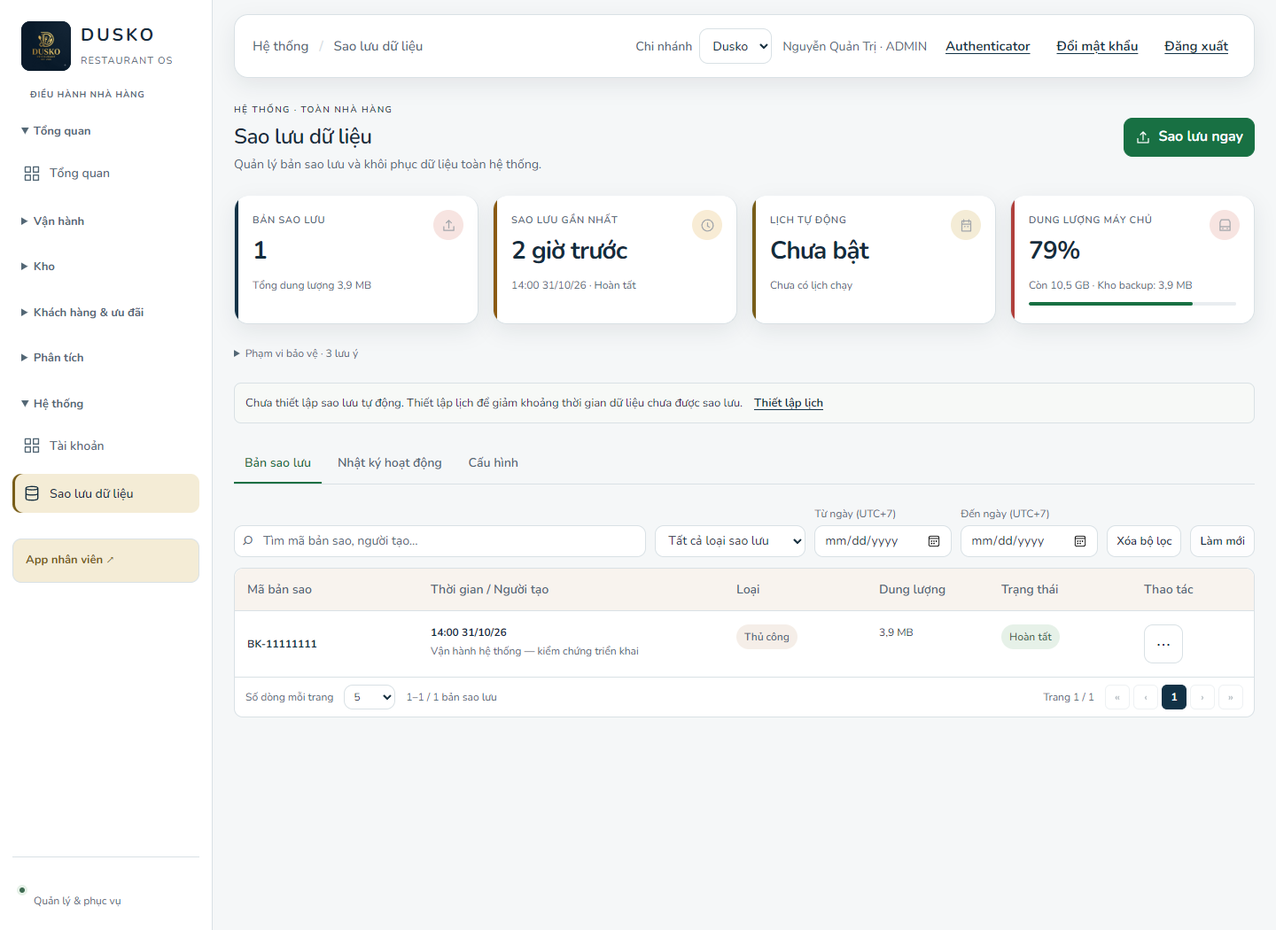
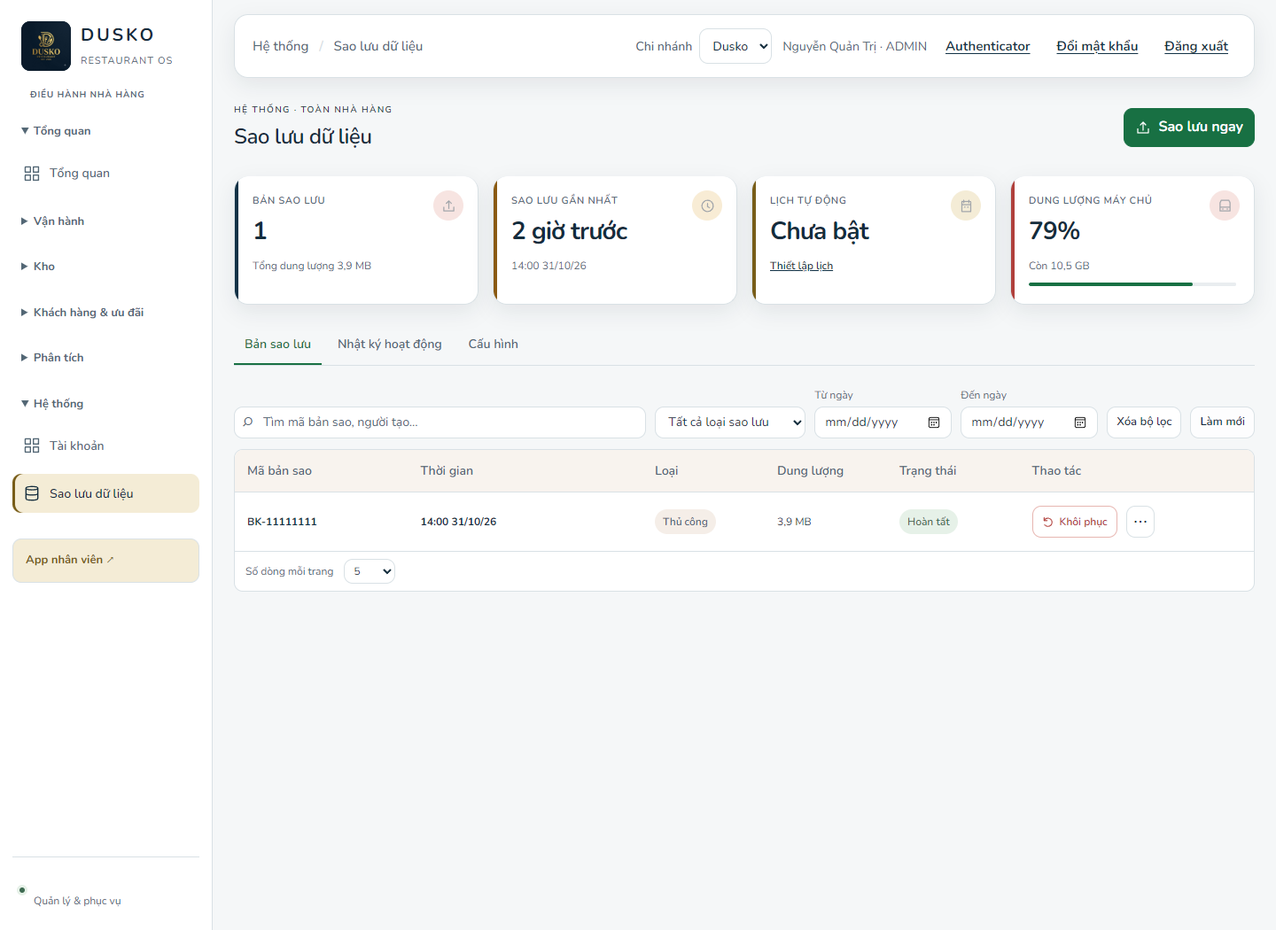
fix: simplify backup workspace and expose restore action

diff --git a/src/backup-console.js b/src/backup-console.js
@@ -47,24 +47,24 @@ export function backupStatusHtml(data,view={}) {
  else if(error)warnings.push({text:'Tác vụ sao lưu hoặc khôi phục gần nhất thất bại/gián đoạn.',action:'tab-activity',label:'Kiểm tra lỗi'});
  if(!latest)warnings.push({text:'Chưa ghi nhận bản sao hoàn tất trong kho đang theo dõi.'});
  else if(age>24)warnings.push({text:'Bản sao gần nhất đã hơn 24 giờ. Cân nhắc tạo bản mới theo nhu cầu vận hành.'});
- if(schedule.frequency==='OFF')warnings.push({text:'Chưa thiết lập sao lưu tự động. Thiết lập lịch để giảm khoảng thời gian dữ liệu chưa được sao lưu.',action:'schedule',label:'Thiết lập lịch'});
+
  if(schedule.lastError)warnings.push({text:schedule.lastError,action:'tab-settings',label:'Kiểm tra lịch'});
  if(lowDisk)warnings.push({text:'Dung lượng trống dưới ngưỡng tối thiểu 512 MiB. Cần giải phóng dung lượng trước khi sao lưu.',action:'tab-settings',label:'Xem dung lượng'});
  const issues=[...(!connected.some(item=>item.id!=='local')?['Chưa ghi nhận bản sao ngoài máy chủ; mất volume có thể làm mất cả các bản local.']:[]),...(!data.restoreVerified?['Chưa có kết quả kiểm chứng khôi phục cho các bản trong kho này.']:[]),'Danh sách dựa trên manifest; chưa đối chiếu lại toàn bộ checksum khi tải trang.'];
- const header=`<div class="page-head bk-heading"><div><span class="eyebrow">HỆ THỐNG · TOÀN NHÀ HÀNG</span><h1>Sao lưu dữ liệu</h1><p>Quản lý bản sao lưu và khôi phục dữ liệu toàn hệ thống.</p></div><button class="btn primary bk-primary" data-backup="create" ${cap.canCreate?'':'disabled'}>${icons.backup}Sao lưu ngay</button></div>`;
+ const header=`<div class="page-head bk-heading"><div><span class="eyebrow">HỆ THỐNG · TOÀN NHÀ HÀNG</span><h1>Sao lưu dữ liệu</h1></div><button class="btn primary bk-primary" data-backup="create" ${cap.canCreate?'':'disabled'}>${icons.backup}Sao lưu ngay</button></div>`;
  const running=active?`<section class="bk-running" aria-live="polite"><div class="bk-running-head"><div>${badge(backupStates[active.state]||'Đang xử lý',active.stalled?'danger':'info')}<strong>${e(operations[active.operation||'BACKUP'])} · ${e(phases[active.phase]||'Chuẩn bị')}</strong></div><b>${progress}%</b></div><progress class="bk-meter" max="100" value="${progress}" aria-label="Tiến độ tác vụ">${progress}%</progress><small>Tiến độ theo công đoạn · tác vụ tiếp tục chạy khi đóng trang</small>${active.message?`<p class="bk-error">${e(active.message)}</p>`:''}</section>`:'';
  const overview=backupOverviewHtml({data,backups,latest,relative,percent,diskTone,frequency,schedule,sum,issues,icons,size:backupSize});
  const warningHtml=item=>`<span>${e(item.text)}</span>${item.action?`<button class="btn text" data-backup="${item.action}" ${item.action==='schedule'&&locked?'disabled':''}>${e(item.label)}</button>`:''}`;
  const attention=warnings.length?`<section class="bk-attention" aria-label="Lưu ý vận hành"><ul>${warnings.length<=2?warnings.map(item=>`<li>${warningHtml(item)}</li>`).join(''):`<li>${warningHtml(warnings[0])}</li><li><details data-backup-detail="more-warnings"><summary>${warnings.length-1} lưu ý vận hành khác</summary><ul>${warnings.slice(1).map(item=>`<li>${warningHtml(item)}</li>`).join('')}</ul></details></li>`}</ul></section>`:'';
  const tabs=`<nav class="bk-tabs" aria-label="Mục quản trị sao lưu">${[['archives','Bản sao lưu'],['activity','Nhật ký hoạt động'],['settings','Cấu hình']].map(([id,label])=>`<button data-backup="tab-${id}" ${tab===id?'aria-current="page"':''}>${label}</button>`).join('')}</nav>`;
- const filters=`<div class="bk-date-filters"><div class="bk-filters" role="search" aria-label="Lọc theo thời gian"><label><span>Từ ngày (UTC+7)</span><input type="date" data-backup-filter="from" value="${e(view.from||'')}"></label><label><span>Đến ngày (UTC+7)</span><input type="date" data-backup-filter="to" value="${e(view.to||'')}"></label><button class="btn secondary" data-backup="clear-filters">Xóa bộ lọc</button></div></div>`;
+ const filters=`<div class="bk-date-filters"><div class="bk-filters" role="search" aria-label="Lọc theo thời gian"><label><span>Từ ngày</span><input type="date" data-backup-filter="from" value="${e(view.from||'')}"></label><label><span>Đến ngày</span><input type="date" data-backup-filter="to" value="${e(view.to||'')}"></label><button class="btn secondary" data-backup="clear-filters">Xóa bộ lọc</button></div></div>`;
  const toolbar=`<div class="bk-list-toolbar"><label class="bk-list-search"><span class="bk-sr-only">Tìm bản sao lưu</span><span aria-hidden="true">⌕</span><input type="search" data-backup-filter="query" value="${e(view.query||'')}" placeholder="Tìm mã bản sao, người tạo…"></label><label class="bk-list-type"><span class="bk-sr-only">Loại sao lưu</span><select data-backup-filter="type">${[['','Tất cả loại sao lưu'],['MANUAL','Thủ công'],['AUTO','Tự động'],['SAFETY','Trước khôi phục']].map(([value,label])=>`<option value="${value}" ${view.type===value?'selected':''}>${label}</option>`).join('')}</select></label>${filters}<button class="btn secondary bk-refresh" data-backup="refresh">Làm mới</button></div>`;
- const table=archiveView.items.length?`<div class="table-scroll ui-table-scroll">${tableMarkup({headers:["M\u00e3 b\u1ea3n sao", "Th\u1eddi gian / Ng\u01b0\u1eddi t\u1ea1o", "Lo\u1ea1i", "Dung l\u01b0\u1ee3ng", "Tr\u1ea1ng th\u00e1i", "Thao t\u00e1c"],rowsHtml:archiveView.items.map(item=>`<tr><td data-label="Mã bản sao"><button class="bk-record-link" data-backup="details" data-archive-id="${e(item.id)}" title="${e(item.id)}">BK-${e((item.id?.match(/([a-f0-9]{8})-[a-f0-9-]{27}$/i)?.[1]||item.id?.slice(-8)||'—').toUpperCase())}</button></td><td data-label="Thời gian"><strong>${e(dateTime(item.createdAt))}</strong><small class="bk-archive-actor" title="${e(item.requestedByName||'Chưa ghi nhận')}">${e(item.requestedByName||'Chưa ghi nhận')}</small></td><td data-label="Loại">${badge(triggerLabel(item.trigger),item.trigger==='AUTO'?'info':'neutral')}</td><td data-label="Dung lượng">${e(backupSize(item.bytes))}</td><td data-label="Trạng thái">${badge('Hoàn tất','success')}</td><td data-label="Thao tác"><details class="bk-row-menu" data-backup-detail="archive-${e(item.id)}"><summary aria-label="Thao tác bản sao ${e(dateTime(item.createdAt))}" title="Thao tác"><span aria-hidden="true">⋯</span></summary><div class="bk-menu-items"><button data-backup="details" data-archive-id="${e(item.id)}">Thông tin bản sao</button>${action('Tải về','download',item.id,locked)}<div class="bk-menu-danger"><small>Thao tác cần xác nhận</small>${action('Khôi phục','restore',item.id,locked||!cap.canRestore||!item.canRestore,item.restoreReason||cap.restoreReason||'Ghi đè dữ liệu toàn hệ thống')}${action('Xóa','delete',item.id,locked||(data.totalBackups??backups.length)<=1,'Giữ lại ít nhất một bản hoàn chỉnh')}</div></div></details></td></tr>`).join(''),className:'bk-archive-table'})}</div>`:`<div class="bk-empty"><h3>${backups.length?'Không có bản sao phù hợp':'Chưa có bản sao lưu'}</h3><p>${backups.length?'Thử đổi ngày, loại hoặc từ khóa tìm kiếm.':'Tạo bản đầu tiên bằng nút Sao lưu ngay.'}</p></div>`;
+ const table=archiveView.items.length?`<div class="table-scroll ui-table-scroll">${tableMarkup({headers:["M\u00e3 b\u1ea3n sao", "Th\u1eddi gian", "Lo\u1ea1i", "Dung l\u01b0\u1ee3ng", "Tr\u1ea1ng th\u00e1i", "Thao t\u00e1c"],rowsHtml:archiveView.items.map(item=>`<tr><td data-label="Mã bản sao"><button class="bk-record-link" data-backup="details" data-archive-id="${e(item.id)}" title="${e(item.id)}">BK-${e((item.id?.match(/([a-f0-9]{8})-[a-f0-9-]{27}$/i)?.[1]||item.id?.slice(-8)||'—').toUpperCase())}</button></td><td data-label="Thời gian"><strong title="${e(item.requestedByName||'')}" >${e(dateTime(item.createdAt))}</strong></td><td data-label="Loại">${badge(triggerLabel(item.trigger),item.trigger==='AUTO'?'info':'neutral')}</td><td data-label="Dung lượng">${e(backupSize(item.bytes))}</td><td data-label="Trạng thái">${badge('Hoàn tất','success')}</td><td data-label="Thao tác"><div class="bk-row-actions">${action('Khôi phục','restore',item.id,locked||!cap.canRestore||!item.canRestore,item.restoreReason||cap.restoreReason||'Ghi đè dữ liệu toàn hệ thống')}<details class="bk-row-menu" data-backup-detail="archive-${e(item.id)}"><summary aria-label="Thao tác bản sao ${e(dateTime(item.createdAt))}" title="Thao tác"><span aria-hidden="true">⋯</span></summary><div class="bk-menu-items"><button data-backup="details" data-archive-id="${e(item.id)}">Thông tin bản sao</button>${action('Tải về','download',item.id,locked)}<div class="bk-menu-danger"><small>Thao tác cần xác nhận</small>${action('Xóa','delete',item.id,locked||(data.totalBackups??backups.length)<=1,'Giữ lại ít nhất một bản hoàn chỉnh')}</div></div></details></div></td></tr>`).join(''),className:'bk-archive-table'})}</div>`:`<div class="bk-empty"><h3>${backups.length?'Không có bản sao phù hợp':'Chưa có bản sao lưu'}</h3><p>${backups.length?'Thử đổi ngày, loại hoặc từ khóa tìm kiếm.':'Tạo bản đầu tiên bằng nút Sao lưu ngay.'}</p></div>`;
  const pageNumbers=[...new Set([1,archiveView.page-1,archiveView.page,archiveView.page+1,archiveView.pages].filter(n=>n>=1&&n<=archiveView.pages))].sort((a,b)=>a-b);
- const pagination=`<div class="bk-pagination" data-page="${archiveView.page}"><div class="bk-pagination-meta"><label>Số dòng mỗi trang <select data-backup-filter="pageSize" aria-label="Số dòng mỗi trang">${[5,10,20].map(n=>`<option ${n===archiveView.pageSize?'selected':''}>${n}</option>`).join('')}</select></label><span role="status">${archiveView.total?`${(archiveView.page-1)*archiveView.pageSize+1}–${Math.min(archiveView.page*archiveView.pageSize,archiveView.total)}`:'0'} / ${archiveView.total} bản sao lưu</span></div><nav aria-label="Phân trang bản sao lưu"><span class="bk-page-label">Trang ${archiveView.page} / ${archiveView.pages}</span><button class="btn secondary" data-backup="goto-page" data-page="1" ${archiveView.page<=1?'disabled':''} aria-label="Trang đầu">«</button><button class="btn secondary" data-backup="previous-page" ${archiveView.page<=1?'disabled':''} aria-label="Trang trước">‹</button>${pageNumbers.map((n,i)=>`${i&&n>pageNumbers[i-1]+1?'<span class="bk-page-gap">…</span>':''}<button class="btn secondary bk-page-number" data-backup="goto-page" data-page="${n}" ${n===archiveView.page?'aria-current="page"':''} aria-label="Trang ${n}">${n}</button>`).join('')}<button class="btn secondary" data-backup="next-page" ${archiveView.page>=archiveView.pages?'disabled':''} aria-label="Trang sau">›</button><button class="btn secondary" data-backup="goto-page" data-page="${archiveView.pages}" ${archiveView.page>=archiveView.pages?'disabled':''} aria-label="Trang cuối">»</button></nav></div>`;
- const detail=selected?`<section class="bk-archive-detail" aria-label="Thông tin bản sao"><div class="bk-section-head"><h3 tabindex="-1">Thông tin bản sao</h3><button class="btn text" data-backup="close-details">Đóng</button></div><dl><dt>Mã bản sao</dt><dd>${e(selected.id)}</dd><dt>Phạm vi</dt><dd>Toàn hệ thống · tất cả chi nhánh</dd><dt>Thành phần</dt><dd>${e(scopeText(selected))}</dd><dt>Nơi lưu</dt><dd>Kho riêng trên máy chủ</dd><dt>Khả năng khôi phục</dt><dd>${selected.canRestore?'Metadata tương thích môi trường hiện tại; khi khôi phục vẫn kiểm tra đầy đủ checksum.':e(selected.restoreReason||'Chưa xác định khả năng tương thích.')}</dd><dt>Kiểm tra khôi phục</dt><dd>Chưa có kết quả kiểm tra khôi phục cho bản sao này.</dd></dl><p>Khôi phục ghi đè dữ liệu hiện tại toàn hệ thống, tự tạo bản SAFETY và tạm dừng nghiệp vụ. SQL/Mongo được xử lý tuần tự; lỗi sau khi ghi có thể cần vận hành phục hồi thủ công.</p>${action('Khôi phục','restore',selected.id,locked||!cap.canRestore||!selected.canRestore,selected.restoreReason||cap.restoreReason||'Ghi đè dữ liệu hiện tại')}</section>`:'';
+ const pagination=`<div class="bk-pagination" data-page="${archiveView.page}"><div class="bk-pagination-meta"><label>Số dòng mỗi trang <select data-backup-filter="pageSize" aria-label="Số dòng mỗi trang">${[5,10,20].map(n=>`<option ${n===archiveView.pageSize?'selected':''}>${n}</option>`).join('')}</select></label></div>${archiveView.pages>1?`<nav aria-label="Phân trang bản sao lưu"><span class="bk-page-label">Trang ${archiveView.page} / ${archiveView.pages}</span><button class="btn secondary" data-backup="goto-page" data-page="1" ${archiveView.page<=1?'disabled':''} aria-label="Trang đầu">«</button><button class="btn secondary" data-backup="previous-page" ${archiveView.page<=1?'disabled':''} aria-label="Trang trước">‹</button>${pageNumbers.map((n,i)=>`${i&&n>pageNumbers[i-1]+1?'<span class="bk-page-gap">…</span>':''}<button class="btn secondary bk-page-number" data-backup="goto-page" data-page="${n}" ${n===archiveView.page?'aria-current="page"':''} aria-label="Trang ${n}">${n}</button>`).join('')}<button class="btn secondary" data-backup="next-page" ${archiveView.page>=archiveView.pages?'disabled':''} aria-label="Trang sau">›</button><button class="btn secondary" data-backup="goto-page" data-page="${archiveView.pages}" ${archiveView.page>=archiveView.pages?'disabled':''} aria-label="Trang cuối">»</button></nav>`:''}</div>`;
+ const detail=selected?`<section class="bk-archive-detail" aria-label="Thông tin bản sao"><div class="bk-section-head"><h3 tabindex="-1">Thông tin bản sao</h3><button class="btn text" data-backup="close-details">Đóng</button></div><dl><dt>Mã bản sao</dt><dd>${e(selected.id)}</dd><dt>Người tạo</dt><dd>${e(selected.requestedByName||'Chưa ghi nhận')}</dd><dt>Phạm vi</dt><dd>Toàn hệ thống · tất cả chi nhánh</dd><dt>Thành phần</dt><dd>${e(scopeText(selected))}</dd><dt>Nơi lưu</dt><dd>Kho riêng trên máy chủ</dd><dt>Khả năng khôi phục</dt><dd>${selected.canRestore?'Metadata tương thích môi trường hiện tại; khi khôi phục vẫn kiểm tra đầy đủ checksum.':e(selected.restoreReason||'Chưa xác định khả năng tương thích.')}</dd><dt>Kiểm tra khôi phục</dt><dd>Chưa có kết quả kiểm tra khôi phục cho bản sao này.</dd></dl><p>Khôi phục ghi đè dữ liệu hiện tại toàn hệ thống, tự tạo bản SAFETY và tạm dừng nghiệp vụ. SQL/Mongo được xử lý tuần tự; lỗi sau khi ghi có thể cần vận hành phục hồi thủ công.</p>${action('Khôi phục','restore',selected.id,locked||!cap.canRestore||!selected.canRestore,selected.restoreReason||cap.restoreReason||'Ghi đè dữ liệu hiện tại')}</section>`:'';
  const archives=`<section class="bk-archives" aria-label="Danh sách bản sao lưu">${toolbar}${data.truncated?'<p class="bk-footnote">Bộ lọc chỉ áp dụng cho các bản đã tải; kho còn bản chưa được liệt kê.</p>':''}${tableFrame({className:'bk-table-frame',contentHtml:table,footerHtml:pagination})}${detail}${data.invalidCount?`<p class="bk-footnote">${e(data.invalidCount)} thư mục chưa hoàn tất hoặc thiếu manifest hợp lệ.</p>`:''}</section>`;
  const activity=backupAuditHtml(jobs,view);
- const settings=backupSettingsHtml({data,locked,frequency,schedule,connected,storage,size:backupSize,icons});
+ const settings=backupSettingsHtml({data,locked,frequency,schedule,connected,storage,issues,size:backupSize,icons});
  return `<div class="backup-console">${header}${overview}${attention}${!cap.canCreate?`<p class="bk-capability" role="status">${e(cap.reason||'Chức năng tạo backup chưa được bật trên máy chủ.')}</p>`:''}${running}${tabs}${tab==='archives'?archives:tab==='activity'?activity:settings}</div>`;
 }

diff --git a/src/backup-management.js b/src/backup-management.js
@@ -28,15 +28,15 @@ export function backupAuditHtml(jobs,view={}){
 export function backupOverviewHtml({data,backups,latest,relative,percent,diskTone,frequency,schedule,sum,issues,icons,size}){
  const cards=[
   metricCard({label:'Bản sao lưu',value:`${data.truncated?'≥ ':''}${backups.length}`,description:`Tổng dung lượng ${size(sum)}${data.truncated?' · số liệu đã tải':''}`,iconHtml:icons.backup}),
-  metricCard({label:'Sao lưu gần nhất',value:latest?relative||dateTime(latest.createdAt):'Chưa có',description:latest?`${dateTime(latest.createdAt)} · Hoàn tất`:'Chưa ghi nhận bản sao hoàn tất',iconHtml:icons.clock,tone:'warning'}),
-  metricCard({label:'Lịch tự động',value:frequency,description:schedule.nextRunAt?dateTime(schedule.nextRunAt)+' · UTC+7':'Chưa có lịch chạy',iconHtml:icons.schedule,tone:'accent'}),
-  metricCard({label:'Dung lượng máy chủ',value:percent===null?'—':Math.round(percent)+'%',description:data.storage?'Còn '+size(data.storage.freeBytes)+' · Kho backup: '+(data.storage.partial?'≥ ':'')+size(data.storage.backupBytes):'chưa đọc được dung lượng',iconHtml:icons.disk,tone:'danger',className:`bk-storage bk-storage--${diskTone}`,detailHtml:percent===null?'':`<progress class="bk-meter" max="100" value="${percent}" aria-label="Dung lượng toàn máy chủ">${percent}%</progress>`})
+  metricCard({label:'Sao lưu gần nhất',value:latest?relative||dateTime(latest.createdAt):'Chưa có',description:latest?dateTime(latest.createdAt):'Chưa ghi nhận bản sao hoàn tất',iconHtml:icons.clock,tone:'warning'}),
+  metricCard({label:'Lịch tự động',value:frequency,description:schedule.nextRunAt?dateTime(schedule.nextRunAt):'',iconHtml:icons.schedule,tone:'accent',detailHtml:schedule.frequency==='OFF'?`<button class="bk-schedule-shortcut" data-backup="schedule" ${data.activeJob||!data.capability?.canManageArchives?'disabled':''}>Thiết lập lịch</button>`:''}),
+  metricCard({label:'Dung lượng máy chủ',value:percent===null?'—':Math.round(percent)+'%',description:data.storage?'Còn '+size(data.storage.freeBytes):'chưa đọc được dung lượng',iconHtml:icons.disk,tone:'danger',className:`bk-storage bk-storage--${diskTone}`,detailHtml:percent===null?'':`<progress class="bk-meter" max="100" value="${percent}" aria-label="Dung lượng toàn máy chủ">${percent}%</progress>`})
  ];
- return `<section class="bk-overview" aria-label="Tình trạng bảo vệ dữ liệu">${metricGrid(cards,{className:'bk-metric-grid'})}<details class="bk-protection-notes" data-backup-detail="assurance"><summary>Phạm vi bảo vệ · ${issues.length} lưu ý</summary><ul>${issues.map(text=>`<li>${e(text)}</li>`).join('')}</ul></details></section>`;
+ return `<section class="bk-overview" aria-label="Tình trạng bảo vệ dữ liệu">${metricGrid(cards,{className:'bk-metric-grid'})}</section>`;
 }
 
-export function backupSettingsHtml({data,locked,frequency,schedule,connected,storage,size,icons}){
+export function backupSettingsHtml({data,locked,frequency,schedule,connected,storage,issues=[],size,icons}){
  const row=(icon,title,description,control,details='')=>`<section class="bk-setting-row"><span class="bk-setting-icon">${icon}</span><div class="bk-setting-copy"><h3>${title}</h3><p>${description}</p>${details}</div><div class="bk-setting-control">${control}</div></section>`;
  const expand=(id,label,body)=>`<details data-backup-detail="${id}"><summary>${label}</summary>${body}</details>`;
- return `<section class="bk-card bk-settings"><div class="bk-section-head"><div><h2>Cấu hình sao lưu</h2><p>Lịch trình, nơi lưu và chính sách bảo vệ dữ liệu.</p></div><span class="bk-badge bk-badge--${data.availability==='AVAILABLE'?'success':'neutral'}">${data.availability==='AVAILABLE'?'Kho máy chủ khả dụng':'Kho chưa khả dụng'}</span></div>${row(icons.schedule,'Sao lưu tự động',`${e(frequency)}${schedule.nextRunAt?' · '+e(dateTime(schedule.nextRunAt))+' (UTC+7)':''}`,`<button class="btn secondary" data-backup="schedule" ${locked?'disabled':''}>${schedule.frequency==='OFF'?'Thiết lập lịch':'Chỉnh lịch trình'}</button>`,schedule.lastError?`<p class="bk-error">${e(schedule.lastError)}</p>`:'')}${row(icons.disk,'Nơi lưu trữ',`${connected.length?e(connected.map(item=>item.name).join(', ')):'Chưa kết nối kho'} · Chưa có đồng bộ ngoài máy chủ`, '',expand('destinations','Xem khả năng lưu trữ','<p>Amazon S3, Google Drive, Dropbox, OneDrive: Chưa cấu hình; module chưa tích hợp gửi backup đến các dịch vụ này.</p>'))}${row(icons.trash,'Chính sách lưu giữ','Dọn thủ công · Chưa có tự động xóa bản cũ','<span class="bk-badge">Chỉ đọc</span>',expand('retention','Xem nguyên tắc lưu giữ','<p>Xóa thủ công phải giữ ít nhất một bản khác đã kiểm tra toàn vẹn. Thao tác nằm trong menu của từng bản sao, yêu cầu CONFIRM và mã Authenticator mới.</p>'))}${row(icons.disk,'Dung lượng máy chủ',storage?`${e(size(storage.usedBytes))} / ${e(size(storage.totalBytes))} toàn máy chủ · còn ${e(size(storage.freeBytes))}`:'chưa đọc được dung lượng','',expand('capacity','Xem chi tiết dung lượng',`<p>Riêng kho backup: ${storage?(storage.partial?'≥ ':'')+e(size(storage.backupBytes)):'—'}. Không phải hạn mức riêng dành cho backup.</p><p>Ngưỡng trống tối thiểu trước khi chạy là 512 MiB; vượt ngưỡng không bảo đảm đủ chỗ cho lần sao lưu tiếp theo.</p>`))}${row(icons.shield,'Bảo mật và khôi phục','ADMIN chính · Xác thực MFA · Xác nhận thao tác nguy hiểm','',expand('security','Xem chính sách','<p>Chỉ ADMIN chính đã xác thực MFA được quản trị. Thao tác dữ liệu yêu cầu mã Authenticator mới; khôi phục và xóa yêu cầu CONFIRM.</p><p>Khôi phục tạo SAFETY trước, ghi đè dữ liệu và tạm dừng nghiệp vụ. SQL/Mongo xử lý tuần tự; lỗi sau ghi giữ bảo trì để vận hành đối soát. Cần đăng nhập lại bằng tài khoản/MFA của bản nguồn sau restore.</p>'))}${row(icons.backup,'Phạm vi dữ liệu','Toàn hệ thống · tất cả chi nhánh','<span class="bk-badge">Chỉ đọc</span>',expand('scope','Xem thành phần sao lưu','<p>Gồm PostgreSQL schema public, MongoDB ứng dụng/AI và uploads local nếu sử dụng. Không gồm source code, .env, khóa vận hành hay ảnh cloud.</p><p>Không có snapshot đồng thời giữa các database. Lựa chọn chi nhánh bên ngoài không giới hạn phạm vi backup.</p>'))}</section>`;
+ return `<section class="bk-card bk-settings"><div class="bk-section-head"><div><h2>Cấu hình sao lưu</h2><p>Lịch trình, nơi lưu và chính sách bảo vệ dữ liệu.</p></div><span class="bk-badge bk-badge--${data.availability==='AVAILABLE'?'success':'neutral'}">${data.availability==='AVAILABLE'?'Kho máy chủ khả dụng':'Kho chưa khả dụng'}</span></div>${row(icons.schedule,'Sao lưu tự động',`${e(frequency)}${schedule.nextRunAt?' · '+e(dateTime(schedule.nextRunAt)):''}`,`<button class="btn secondary" data-backup="schedule" ${locked?'disabled':''}>${schedule.frequency==='OFF'?'Thiết lập lịch':'Chỉnh lịch trình'}</button>`,schedule.lastError?`<p class="bk-error">${e(schedule.lastError)}</p>`:'')}${row(icons.disk,'Nơi lưu trữ',`${connected.length?e(connected.map(item=>item.name).join(', ')):'Chưa kết nối kho'} · Chưa có đồng bộ ngoài máy chủ`, '',expand('destinations','Xem khả năng lưu trữ','<p>Amazon S3, Google Drive, Dropbox, OneDrive: Chưa cấu hình; module chưa tích hợp gửi backup đến các dịch vụ này.</p>'))}${row(icons.trash,'Chính sách lưu giữ','Dọn thủ công · Chưa có tự động xóa bản cũ','<span class="bk-badge">Chỉ đọc</span>',expand('retention','Xem nguyên tắc lưu giữ','<p>Xóa thủ công phải giữ ít nhất một bản khác đã kiểm tra toàn vẹn. Thao tác nằm trong menu của từng bản sao, yêu cầu CONFIRM và mã Authenticator mới.</p>'))}${row(icons.disk,'Dung lượng máy chủ',storage?`${e(size(storage.usedBytes))} / ${e(size(storage.totalBytes))} toàn máy chủ · còn ${e(size(storage.freeBytes))}`:'chưa đọc được dung lượng','',expand('capacity','Xem chi tiết dung lượng',`<p>Riêng kho backup: ${storage?(storage.partial?'≥ ':'')+e(size(storage.backupBytes)):'—'}. Không phải hạn mức riêng dành cho backup.</p><p>Ngưỡng trống tối thiểu trước khi chạy là 512 MiB; vượt ngưỡng không bảo đảm đủ chỗ cho lần sao lưu tiếp theo.</p>`))}${row(icons.shield,'Bảo mật và khôi phục','ADMIN chính · Xác thực MFA · Xác nhận thao tác nguy hiểm','',expand('security','Xem chính sách','<p>Chỉ ADMIN chính đã xác thực MFA được quản trị. Thao tác dữ liệu yêu cầu mã Authenticator mới; khôi phục và xóa yêu cầu CONFIRM.</p><p>Khôi phục tạo SAFETY trước, ghi đè dữ liệu và tạm dừng nghiệp vụ. SQL/Mongo xử lý tuần tự; lỗi sau ghi giữ bảo trì để vận hành đối soát. Cần đăng nhập lại bằng tài khoản/MFA của bản nguồn sau restore.</p>'))}${row(icons.backup,'Phạm vi dữ liệu','Toàn hệ thống · tất cả chi nhánh','<span class="bk-badge">Chỉ đọc</span>',expand('scope','Xem thành phần sao lưu','<p>Gồm PostgreSQL schema public, MongoDB ứng dụng/AI và uploads local nếu sử dụng. Không gồm source code, .env, khóa vận hành hay ảnh cloud.</p><p>Không có snapshot đồng thời giữa các database. Lựa chọn chi nhánh bên ngoài không giới hạn phạm vi backup.</p>'))}<details class="bk-protection-notes" data-backup-detail="assurance"><summary>Phạm vi bảo vệ</summary><ul>${issues.map(text=>`<li>${e(text)}</li>`).join('')}</ul></details></section>`;
 }

diff --git a/tests/backup-status.test.js b/tests/backup-status.test.js
@@ -13,11 +13,11 @@ test('missing inventory never invents protection or capacity and keeps create di
 test('archive summary separates server usage from backup footprint and escapes metadata',()=>{
  const data={...base,capability:{canCreate:true,canRestore:true,canManageArchives:true},totalBackups:2,storage:{totalBytes:50*1024**3,usedBytes:15*1024**3,freeBytes:35*1024**3,backupBytes:1024**3,usagePercent:30},backups:[{id:'archive',createdAt:'2026-10-30T20:00:00Z',bytes:1048576,trigger:'AUTO',requestedByName:'<script>',imageProvider:'s3',canRestore:true}]};
  const html=backupStatusHtml(data);
- for(const text of ['Dung lượng máy chủ','Kho backup: 1 GB','Còn 35 GB','30%','Tự động','&lt;script&gt;','data-backup="restore"','data-backup="download"','data-backup="delete"'])assert.ok(html.includes(text),text);
+ for(const text of ['Dung lượng máy chủ','Còn 35 GB','30%','Tự động','&lt;script&gt;','data-backup="restore"','data-backup="download"','data-backup="delete"'])assert.ok(html.includes(text),text);
  assert.equal((html.match(/data-backup="create"/g)||[]).length,1);
  assert.ok(!html.includes('bk-workspace'));assert.ok(!html.includes('class="bk-activity"'));
  const settings=backupStatusHtml(data,{tab:'settings'});
- for(const text of ['15 GB / 50 GB','Chưa cấu hình','ADMIN chính','tất cả chi nhánh','Không gồm source code'])assert.ok(settings.includes(text),text);
+ for(const text of ['15 GB / 50 GB','Riêng kho backup: 1 GB','Chưa cấu hình','ADMIN chính','tất cả chi nhánh','Không gồm source code'])assert.ok(settings.includes(text),text);
  const detail=backupStatusHtml(data,{detailId:'archive'});assert.ok(detail.includes('Không gồm ảnh cloud'));assert.ok(detail.includes('SAFETY'));
 });
 test('active progress and failures are shown without a blanket safety claim',()=>{
@@ -49,5 +49,5 @@ test('locks, filtered emptiness, truncation and protection limits remain truthfu
  const data={...base,truncated:true,capability:{canManageArchives:true,canRestore:true},totalBackups:30,backups:[{id:'a',createdAt:base.checkedAt,canRestore:true}],activeJob:{state:'RUNNING',progress:12}};
  const html=backupStatusHtml(data);assert.ok(html.includes('data-backup="delete" data-archive-id="a" disabled'));assert.ok(html.includes('Bộ lọc chỉ áp dụng cho các bản đã tải'));
  assert.ok(backupStatusHtml(data,{query:'not-found'}).includes('Không có bản sao phù hợp'));
- assert.ok(html.includes('Thiết lập lịch'));assert.ok(html.includes('Chưa có kết quả kiểm chứng khôi phục'));assert.ok(html.includes('Chưa ghi nhận bản sao ngoài máy chủ'));
+ assert.ok(html.includes('Thiết lập lịch'));const settings=backupStatusHtml(data,{tab:'settings'});assert.ok(settings.includes('Chưa có kết quả kiểm chứng khôi phục'));assert.ok(settings.includes('Chưa ghi nhận bản sao ngoài máy chủ'));assert.ok(!html.includes('Phạm vi bảo vệ'));assert.ok(!html.includes('UTC+7'));
 });

diff --git a/src/backup-status.css b/src/backup-status.css
@@ -42,6 +42,11 @@
 .backup-console .bk-overview{padding:0;border:0;border-radius:0;background:transparent}
 .bk-metric-grid{margin-bottom:0}.backup-console .ui-metric .bk-meter{height:4px;margin:0;max-width:none}.backup-console .ui-metric.bk-storage--danger .bk-meter::-webkit-progress-value{background:var(--danger)}.backup-console .ui-metric.bk-storage--danger .bk-meter::-moz-progress-bar{background:var(--danger)}
 .bk-protection-notes{margin-top:10px;color:var(--muted);font-size:12px}.bk-protection-notes summary{cursor:pointer;width:fit-content}.bk-protection-notes ul{padding-left:18px;margin:8px 0 0;line-height:1.7}
+.bk-schedule-shortcut{padding:0;border:0;background:transparent;color:var(--primary-ink);font:600 12px/1.5 var(--font-ui);text-decoration:underline;min-height:24px;cursor:pointer}
+.backup-console .bk-metric-grid{margin-bottom:0}.backup-console .bk-archives .ui-table td{vertical-align:middle}.bk-record-link{min-height:36px}
+.bk-row-actions{display:flex;align-items:center;gap:10px;flex-wrap:wrap}.bk-row-actions>.bk-action{display:inline-flex;align-items:center;gap:6px;min-height:36px;padding:6px 10px;border:1px solid #e7b5b0;border-radius:var(--radius-control);background:var(--surface);color:var(--danger);font:600 12px/1.5 var(--font-ui);white-space:nowrap;cursor:pointer}.bk-row-actions>.bk-action:hover:not(:disabled){background:var(--danger-soft)}.bk-row-actions>.bk-action svg{width:14px;height:14px}.bk-row-actions .bk-row-menu>summary{width:32px;height:36px;min-height:36px}
+.bk-archives th:first-child{width:17%}.bk-archives th:nth-child(2){width:23%}.bk-archives th:nth-child(3){width:12%}.bk-archives th:nth-child(4){width:12%}.bk-archives th:nth-child(5){width:13%}.bk-archives th:last-child{width:23%}
+@container(max-width:759px){.bk-row-actions{justify-content:flex-end;width:100%}}
 .bk-inline-actions{display:flex;align-items:center;gap:8px;flex-wrap:wrap}.backup-console .bk-activity>.bk-section-head .btn,.backup-console .bk-audit-filters .btn,.backup-console .bk-settings .btn{min-height:36px;padding:6px 10px;font-size:13px;border-color:var(--line);box-shadow:none}
 .bk-audit-filters{display:grid;grid-template-columns:minmax(180px,1.4fr) minmax(140px,1fr) minmax(140px,1fr) auto;gap:10px;align-items:center;margin-bottom:12px}.bk-audit-filters label{min-width:0}
 .backup-console .bk-audit-filters input,.backup-console .bk-audit-filters select{width:100%;min-width:0;min-height:36px;height:36px;padding:6px 10px;border:1px solid var(--line);border-radius:var(--radius-control,10px);background:var(--surface);color:var(--ink);font:inherit;font-size:14px;box-shadow:none}

diff --git a/docs/BACKUP_ADMIN.md b/docs/BACKUP_ADMIN.md
@@ -77,3 +77,9 @@ Validation: 108 FE tests and all three builds pass. Mocked Edge checks cover sta
 ## Shared operational-overview presentation
 
 The later shared-component change supersedes the pastel KPI styling described above. Backup now uses `metricCard` / `metricGrid`, `tableMarkup` / `tableFrame` and `statusBadge` from `src/ui/admin-components.js`, with the same stylesheet as the operational overview. Both archive and activity tables use its cream header, white rows, typography, padding, dividers and pill statuses. Module CSS retains only operational layout, column sizing, filters, menus and narrow-screen flow. See `docs/ADMIN_COMPONENTS.md` for the reusable API and adoption scope.
+
+## Compact archive workspace and visible restore
+
+The archive view omits the subtitle, duplicated footprint/status text, UTC+7 filter suffixes and range/count summary. Date filtering still uses Vietnam calendar boundaries. Protection/verification limitations remain in Settings, while the schedule-off banner is replaced with a shortcut inside the schedule card. Fault, stale-backup and low-capacity warnings remain conditional.
+
+Each archive row exposes Restore directly beside its secondary menu, with the same capability checks and disabled reason. Download/Delete remain in the menu; Restore still requires the existing CONFIRM, fresh MFA and source-credential acknowledgement. Creator information is available in the timestamp tooltip and archive details. Single-page navigation is omitted; multipage controls and page-size selection continue to work. Shared card/table presentation and branch controls are unchanged.
